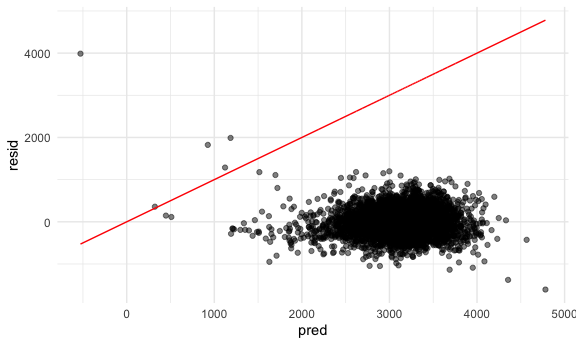
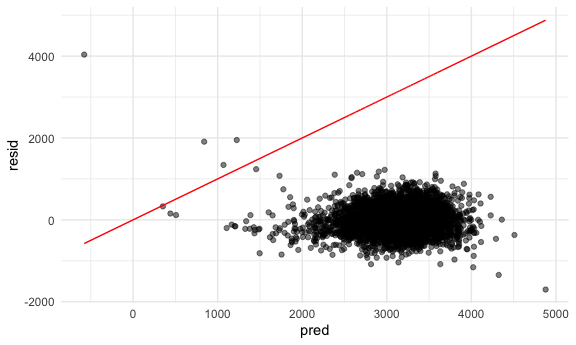
cleaning up some language

diff --git a/p8105_hw6_mem2371.md b/p8105_hw6_mem2371.md
@@ -25,7 +25,8 @@ homicide_df =
 
 There are 5 variables in this dataset, including city and state, victim
 age, whether the case was resolved, race and sex. There are 39693
-observations, with 331 missing observations.
+observations, with 331 missing observations. Victim age ranges from  to
+-.
 
 ### Analyzing Baltimore
 
@@ -128,9 +129,11 @@ I opted to investigate the impact of the mother’s weight gain during
 pregnancy on the child’s birth weight. Potential confounders included *a
 priori* hypothesized predictors, such as average number of cigarettes
 smoked during pregnancy, the mother’s age, baby’s length at birth,
-family income, gestational age, and mother’s height. I subsequently used
-the 10% rule for including confounders. Using this information, I
-adjusted for all aforementioned confounders except for mother’s age.
+family income, gestational age, mother’s height, and previous low
+birthweight baby. I subsequently used the 10% rule for including
+confounders. Using this information, I adjusted for average number of
+cigarettes smoked during pregnancy, baby’s length at birth, gestational
+age, and mother’s height.
 
 ``` r
 # Main exposure
@@ -181,7 +184,7 @@ lm(bwt ~ blength, data = bw_df) %>%
 | blength     |    139.811 |     1.909 |    73.233 |       0 |
 
 ``` r
-# Included as confounder
+# Not included as confounder
 lm(bwt ~ fincome, data = bw_df) %>% 
   broom::tidy() %>% 
   knitr::kable(digits = 3)
@@ -217,7 +220,7 @@ lm(bwt ~ mheight, data = bw_df) %>%
 | mheight     |   37.048 |     2.872 |    12.900 |       0 |
 
 ``` r
-# Included as confounder
+# Not included as confounder
 lm(bwt ~ ppwt, data = bw_df) %>% 
   broom::tidy() %>% 
   knitr::kable(digits = 3)
@@ -229,7 +232,7 @@ lm(bwt ~ ppwt, data = bw_df) %>%
 | ppwt        |    4.646 |     0.379 |    12.255 |       0 |
 
 ``` r
-m1_fit = lm(bwt ~ wtgain + smoken + blength + fincome + gaweeks + mheight + ppwt, data = bw_df)
+m1_fit = lm(bwt ~ wtgain + smoken + blength + gaweeks + mheight, data = bw_df)
 
 broom::tidy(m1_fit) %>% 
   knitr::kable(digits = 3)
@@ -237,14 +240,12 @@ broom::tidy(m1_fit) %>%
 
 | term        |   estimate | std.error | statistic | p.value |
 | :---------- | ---------: | --------: | --------: | ------: |
-| (Intercept) | \-4705.373 |   145.260 |  \-32.393 |   0.000 |
-| wtgain      |      5.065 |     0.462 |    10.956 |   0.000 |
-| smoken      |    \-3.705 |     0.668 |   \-5.546 |   0.000 |
-| blength     |    120.649 |     1.992 |    60.580 |   0.000 |
-| fincome     |      1.687 |     0.192 |     8.792 |   0.000 |
-| gaweeks     |     24.719 |     1.679 |    14.721 |   0.000 |
-| mheight     |      7.161 |     2.073 |     3.455 |   0.001 |
-| ppwt        |      1.759 |     0.272 |     6.467 |   0.000 |
+| (Intercept) | \-5029.388 |   143.084 |  \-35.150 |       0 |
+| wtgain      |      4.507 |     0.464 |     9.713 |       0 |
+| smoken      |    \-3.171 |     0.675 |   \-4.699 |       0 |
+| blength     |    122.649 |     2.005 |    61.166 |       0 |
+| gaweeks     |     26.067 |     1.695 |    15.377 |       0 |
+| mheight     |     14.613 |     1.898 |     7.700 |       0 |
 
 #### Pred vs. Resid Plot
 
@@ -423,8 +424,6 @@ weather_res %>%
   ) %>% 
   knitr::kable(digits = 2)
 ```
-
-    ## `summarise()` ungrouping output (override with `.groups` argument)
 
 | term      | ci\_lower | ci\_upper |
 | :-------- | --------: | --------: |
